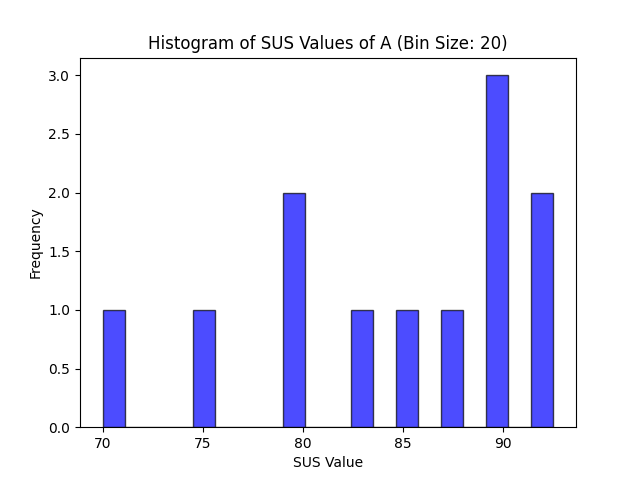
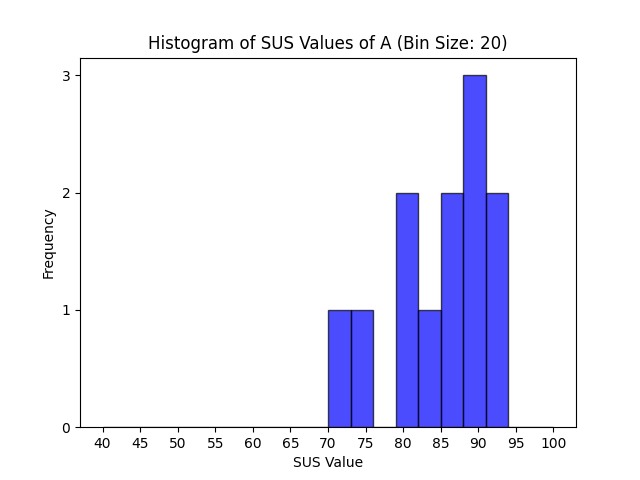
test

diff --git a/code/study_analysis/plots.py b/code/study_analysis/plots.py
@@ -1,5 +1,6 @@
 import matplotlib.pyplot as plt
 import pandas as pd
+import numpy as np
 
 from scipy.stats import shapiro
 from scipy.stats import levene
@@ -11,11 +12,15 @@ file_path = path_to_analysis + '/user_study_data.csv'
 df = pd.read_csv(file_path)
 
 
-# plotting SUS values of A and B as histogram
+
+##### 1. Dependent variable: SUS values #####
+
 number_of_bins = 20
 
 # A
-plt.hist(df['sus_a'], bins=number_of_bins, color='blue', edgecolor='black', alpha=0.7)
+plt.hist(df['sus_a'], range=(40,100), bins=number_of_bins, color='blue', edgecolor='black', alpha=0.7)
+plt.xticks(np.arange(40,101,5))
+plt.yticks(np.arange(0, 4, 1)) 
 plt.xlabel('SUS Value')
 plt.ylabel('Frequency')
 plt.title(f'Histogram of SUS Values of A (Bin Size: {number_of_bins})')
@@ -24,7 +29,9 @@ plt.savefig(path_to_analysis + '/histogram_sus_values_A')
 plt.close()
 
 # B
-plt.hist(df['sus_b'], bins=number_of_bins, color='red', edgecolor='black', alpha=0.7)
+plt.hist(df['sus_b'], range=(40,100), bins=number_of_bins, color='red', edgecolor='black', alpha=0.7)
+plt.xticks(np.arange(40,101,5))
+plt.yticks(np.arange(0, 4, 1)) 
 plt.xlabel('SUS Value')
 plt.ylabel('Frequency')
 plt.title(f'Histogram of SUS Values of B (Bin Size: {number_of_bins})')
@@ -42,17 +49,87 @@ shapiro_res_b = shapiro(df['sus_b'])
 # ...
 
 
+
+##### 2. Dependent variable: Time needed to select a group
+
+number_of_bins = 24
+
+# A
+plt.hist(df['time_a'], range=(0,120), bins=number_of_bins, color='blue', edgecolor='black', alpha=0.7)
+plt.xticks(np.arange(0,121,5))
+plt.yticks(np.arange(0, 4, 1)) 
+plt.xlabel('Time Needed to Select a Group')
+plt.ylabel('Frequency')
+plt.title(f'Histogram of Time Needed to Select a Group in A Test (Bin Size: {number_of_bins})')
+
+plt.savefig(path_to_analysis + '/histogram_time_A')
+plt.close()
+
+# B
+plt.hist(df['time_b'], range=(0,120), bins=number_of_bins, color='blue', edgecolor='black', alpha=0.7)
+plt.xticks(np.arange(0,121,5))
+plt.yticks(np.arange(0, 4, 1)) 
+plt.xlabel('Time Needed to Select a Group')
+plt.ylabel('Frequency')
+plt.title(f'Histogram of Time Needed to Select a Group in B Test (Bin Size: {number_of_bins})')
+
+plt.savefig(path_to_analysis + '/histogram_time_B')
+plt.close()
+
+
+# Do Shapiro-Wilke Test
+shapiro_res_a = shapiro(df['time_a'])
+shapiro_res_b = shapiro(df['time_b'])
+
+
+# Do Levene Test
+# ...
+
+
+
+
+
 # Write Results to Markdown File
 with open(path_to_analysis + '/results.md', 'w') as file:
     file.write('# Data Analysis Results\n')
     file.write('## Properties of Data\n')
 
+
     file.write('### Distribution of SUS Values in A Test\n')
-    html_img_txt = '<img src="histogram_sus_values_A.png" alt="Distribution of SUS Values in A Test" width="500"/>'
-    file.write(html_img_txt + '\n')
+    html_img_txt = '<img src="histogram_sus_values_A.png" alt="Distribution of SUS Values in A Test" width="400"/>'
+    file.write(html_img_txt + '\n\n')
+
+    file.write('### Result of Shapiro-Wilke Test A\n')
+    file.write('p-value: ' + str(round(shapiro_res_a[1],3)) + '\n')
+    if (shapiro_res_a[1] > 0.05): file.write('-> We can assume a normal distribution.\n') 
+    else: file.write('-> We cannot assume a normal distribution.')
 
     file.write('### Distribution of SUS Values in B Test\n')
-    html_img_txt = '<img src="histogram_sus_values_B.png" alt="Distribution of SUS Values in B Test" width="500"/>'
-    file.write(html_img_txt + '\n')
+    html_img_txt = '<img src="histogram_sus_values_B.png" alt="Distribution of SUS Values in B Test" width="400"/>'
+    file.write(html_img_txt + '\n\n')
+
+    file.write('### Result of Shapiro-Wilke Test B\n')
+    file.write('p-value: ' + str(round(shapiro_res_b[1],3)) + '\n')
+    if (shapiro_res_b[1] > 0.05): file.write('-> We can assume a normal distribution.\n') 
+    else: file.write('-> We cannot assume a normal distribution.')
+
+
+    file.write('### Distribution of Time Needed to Select a Group in A Test\n')
+    html_img_txt = '<img src="histogram_time_A.png" alt="Distribution of Time Needed to Select a Group in A Test" width="400"/>'
+    file.write(html_img_txt + '\n\n')
+
+    file.write('### Result of Shapiro-Wilke Test A\n')
+    file.write('p-value: ' + str(round(shapiro_res_a[1],3)) + '\n')
+    if (shapiro_res_a[1] > 0.05): file.write('-> We can assume a normal distribution.\n') 
+    else: file.write('-> We cannot assume a normal distribution.')
+
+    file.write('### Distribution of Time Needed to Select a Group in B Test\n')
+    html_img_txt = '<img src="histogram_time_B.png" alt="Distribution of Time Needed to Select a Group in B Test" width="400"/>'
+    file.write(html_img_txt + '\n\n')
+
+    file.write('### Result of Shapiro-Wilke Test B\n')
+    file.write('p-value: ' + str(round(shapiro_res_b[1],3)) + '\n')
+    if (shapiro_res_b[1] > 0.05): file.write('-> We can assume a normal distribution.\n') 
+    else: file.write('-> We cannot assume a normal distribution.')
     
 

diff --git a/code/study_analysis/results.md b/code/study_analysis/results.md
@@ -1,6 +1,26 @@
 # Data Analysis Results
 ## Properties of Data
 ### Distribution of SUS Values in A Test
-<img src="histogram_sus_values_A.png" alt="Distribution of SUS Values in A Test" width="500"/>
+<img src="histogram_sus_values_A.png" alt="Distribution of SUS Values in A Test" width="400"/>
+
+### Result of Shapiro-Wilke Test A
+p-value: 0.091
+-> We can assume a normal distribution.
 ### Distribution of SUS Values in B Test
-<img src="histogram_sus_values_B.png" alt="Distribution of SUS Values in B Test" width="500"/>
+<img src="histogram_sus_values_B.png" alt="Distribution of SUS Values in B Test" width="400"/>
+
+### Result of Shapiro-Wilke Test B
+p-value: 0.329
+-> We can assume a normal distribution.
+### Distribution of Time Needed to Select a Group in A Test
+<img src="histogram_time_A.png" alt="Distribution of Time Needed to Select a Group in A Test" width="400"/>
+
+### Result of Shapiro-Wilke Test A
+p-value: 0.091
+-> We can assume a normal distribution.
+### Distribution of Time Needed to Select a Group in B Test
+<img src="histogram_time_B.png" alt="Distribution of Time Needed to Select a Group in B Test" width="400"/>
+
+### Result of Shapiro-Wilke Test B
+p-value: 0.329
+-> We can assume a normal distribution.
